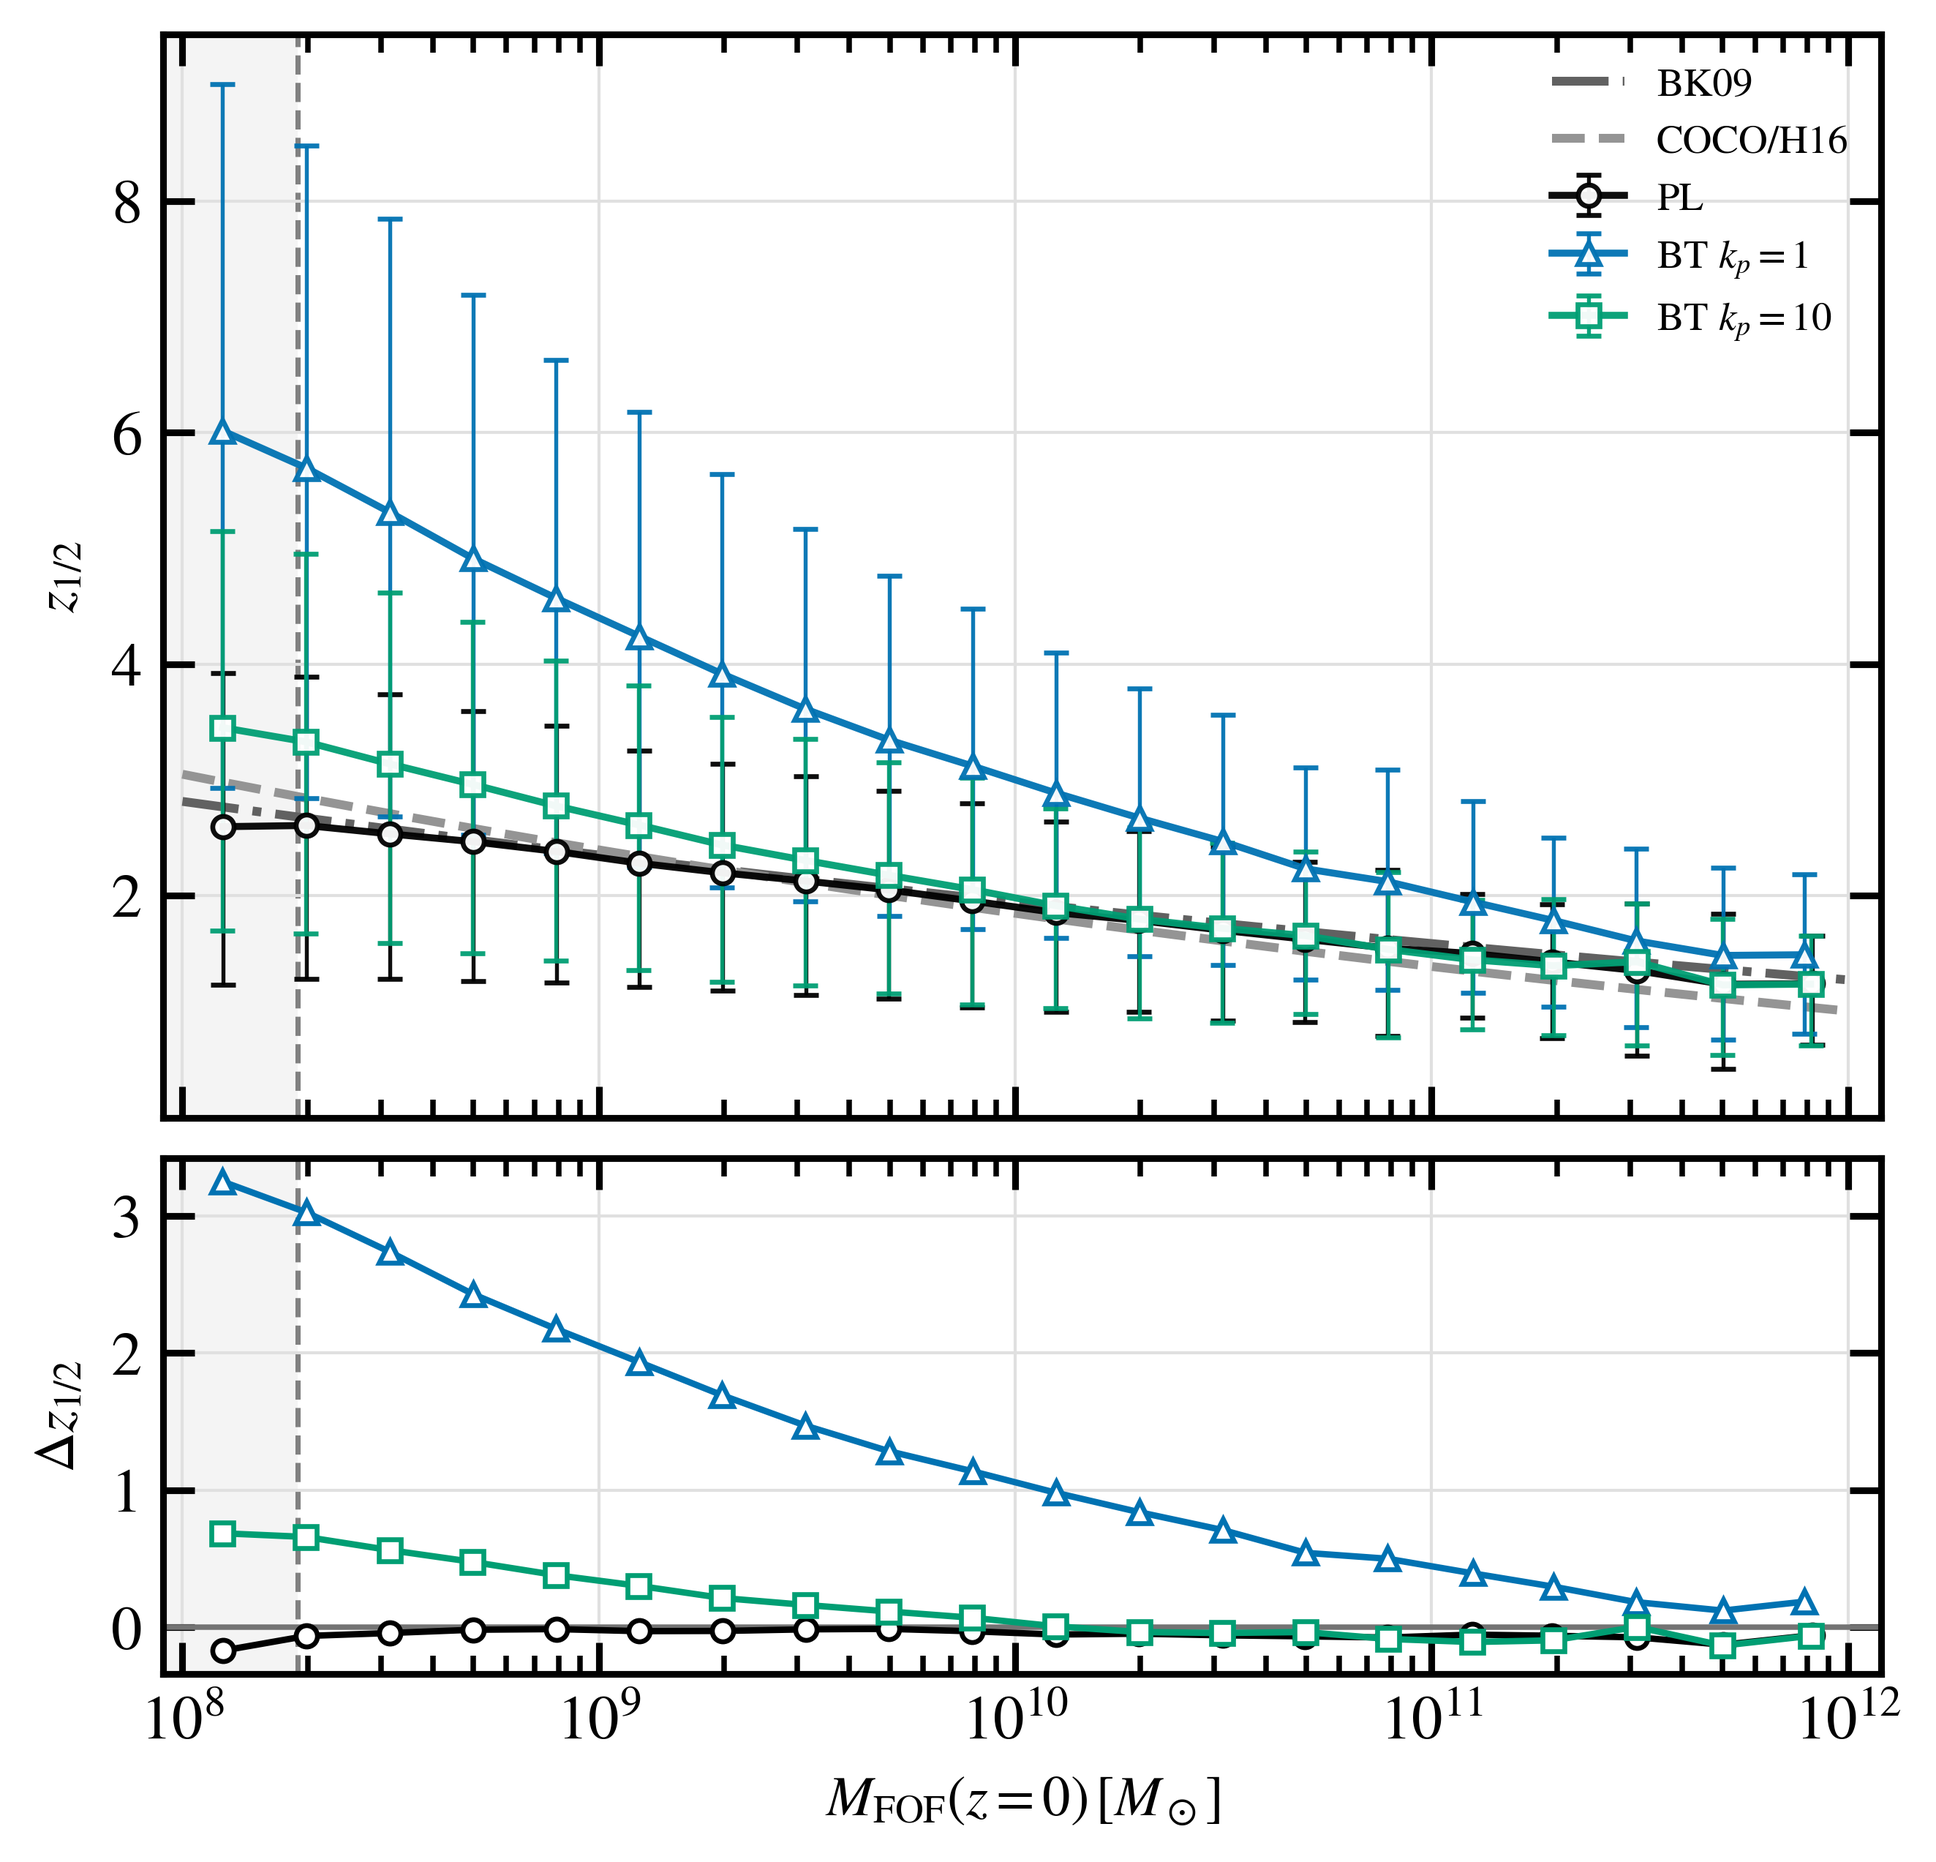
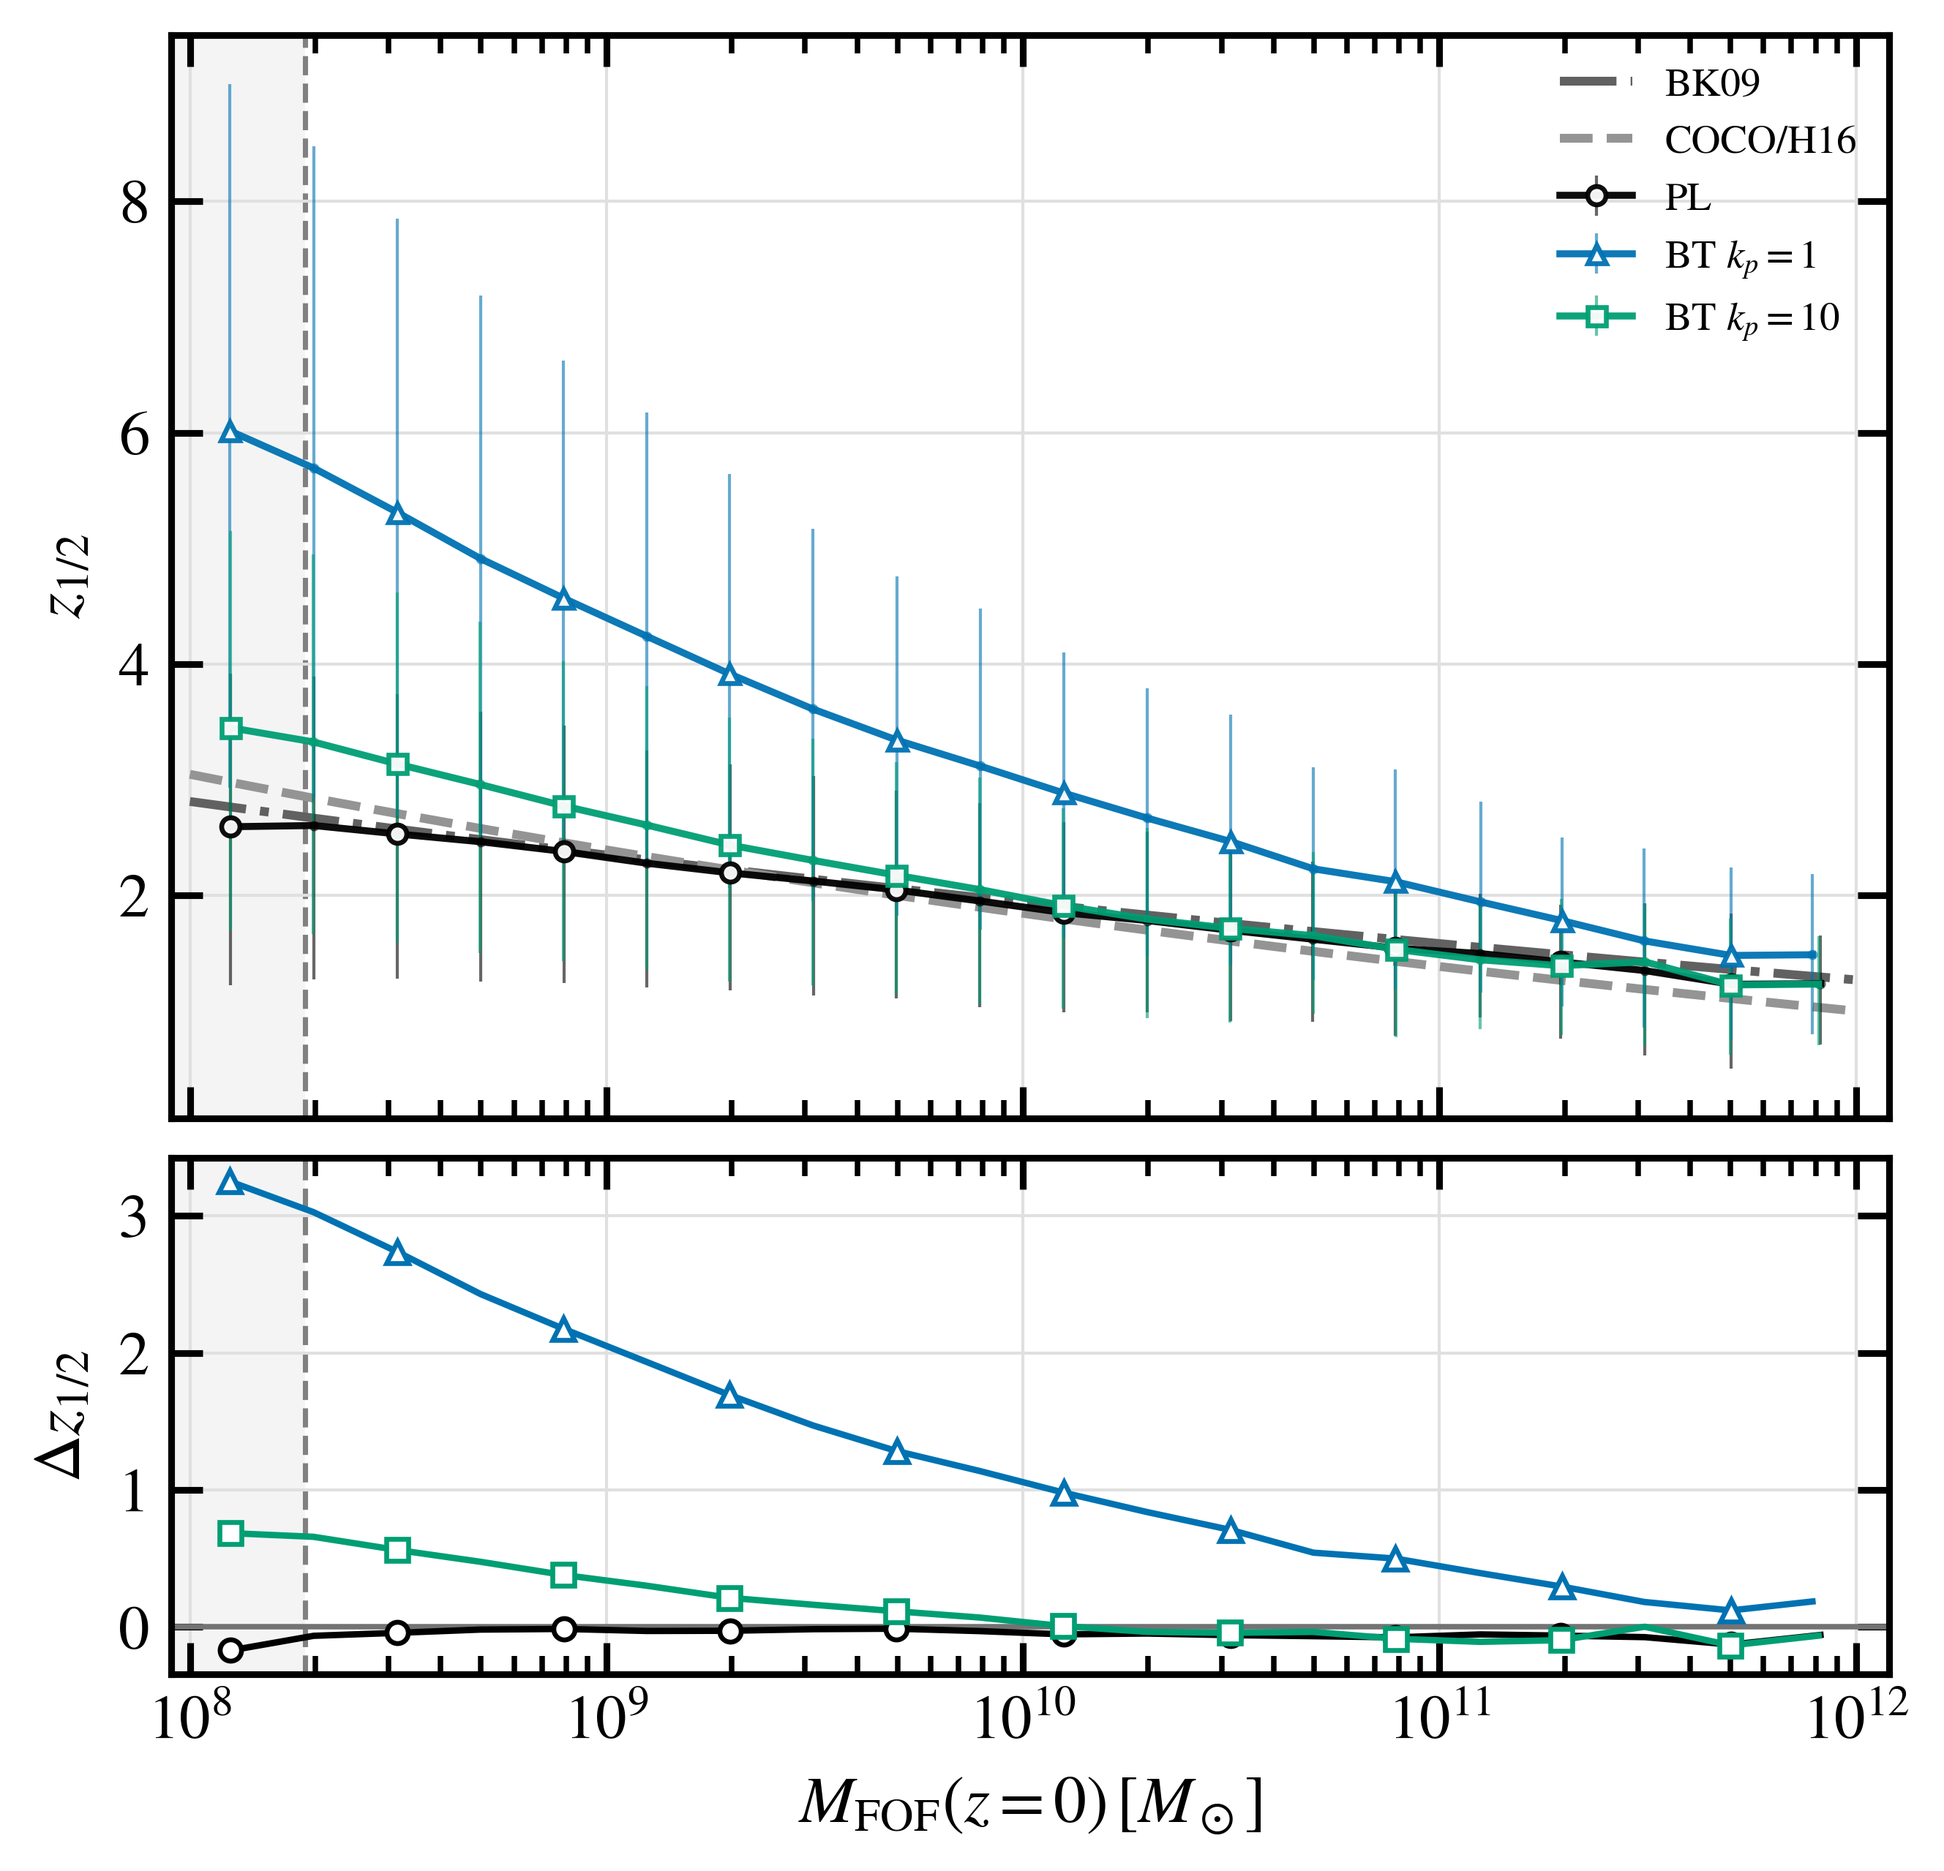
Reduce marker clutter while preserving all measurements and error bars

diff --git a/public_data/scripts/plot_hmf_public_ratio.py b/public_data/scripts/plot_hmf_public_ratio.py
@@ -11,7 +11,7 @@ import matplotlib.pyplot as plt
 import numpy as np
 from matplotlib.ticker import FixedLocator, FuncFormatter, LogFormatterMathtext, LogLocator, NullFormatter
 
-from cosmology_plot_style import JOURNAL_COLORS, apply_journal_style, format_axes, format_redshift, panel_label
+from cosmology_plot_style import JOURNAL_COLORS, apply_journal_style, format_axes, format_redshift, panel_label, sparse_errorbar
 
 
 SCRIPT_DIR = Path(__file__).resolve().parent
@@ -263,7 +263,7 @@ def main():
             r = ratios.get((snap, model), [])
             if r:
                 ax.plot(10 ** values(r, "log10_M_FOF_Msun"), values(r, "reed07_dndlog10M_interp"), style["linestyle"], color=style["color"], lw=1.15)
-                ax_model.errorbar(
+                sparse_errorbar(ax_model,
                     10 ** values(r, "log10_M_FOF_Msun"),
                     values(r, "relative_difference"),
                     yerr=values(r, "ratio_err"),
@@ -276,7 +276,7 @@ def main():
                     elinewidth=0.55,
                 )
             if p:
-                ax.errorbar(
+                sparse_errorbar(ax,
                     10 ** values(p, "log10_M_FOF_Msun"),
                     values(p, "dn_dlog10M"),
                     yerr=values(p, "poisson_err"),
@@ -294,7 +294,7 @@ def main():
                 continue
             mass, ratio, err = bt_pl_cache[(snap, model)]
             style = MODELS[model]
-            ax_bt.errorbar(mass, ratio, yerr=err, fmt=style["marker"], color=style["color"], markersize=2.9, capsize=1.2, markerfacecolor="white", markeredgewidth=0.7, elinewidth=0.55)
+            sparse_errorbar(ax_bt, mass, ratio, yerr=err, fmt=style["marker"], color=style["color"], markersize=2.9, capsize=1.2, markerfacecolor="white", markeredgewidth=0.7, elinewidth=0.55)
 
         ax_bt.axhline(1.0, color="0.2", lw=0.7, alpha=0.65)
         ax_bt.axhline(2.0, color="0.5", ls=":", lw=0.6, alpha=0.55)
@@ -343,7 +343,7 @@ def main():
         handles.append((line, point))
         labels.append(MODEL_LABELS[model])
     fig.axes[0].legend(handles, labels, loc="lower left", fontsize=8.8, frameon=True, framealpha=0.75, edgecolor="none")
-    fig.savefig(OUTPUT_PATH, dpi=120, bbox_inches=None)
+    fig.savefig(OUTPUT_PATH, dpi=600, bbox_inches=None)
     plt.close(fig)
     print(f"Saved {OUTPUT_PATH}")
 

diff --git a/public_data/scripts/plot_mass_assembly_history_correa.py b/public_data/scripts/plot_mass_assembly_history_correa.py
@@ -24,7 +24,7 @@ BT_OVER_PL_OUTPUT = DATA_DIR / "bt_over_pl_mass_fraction_ratio.csv"
 if str(SCRIPT_DIR) not in sys.path:
     sys.path.insert(0, str(SCRIPT_DIR))
 
-from cosmology_plot_style import apply_journal_style, format_axes, save_publication_figure  # noqa: E402
+from cosmology_plot_style import apply_journal_style, format_axes, save_publication_figure, sparse_errorbar  # noqa: E402
 
 
 apply_journal_style(base_fontsize=8.5)
@@ -173,7 +173,7 @@ def make_figure(
                 bt_direct["z"].to_numpy(dtype=float),
                 interval_kind,
             )
-        ax.errorbar(
+        sparse_errorbar(ax,
             np.log10(1.0 + pl_direct["z"]),
             pl_direct["median_M_msun"],
             yerr=pl_mass_errors,
@@ -185,7 +185,7 @@ def make_figure(
             capsize=1.2,
             capthick=0.65,
         )
-        ax.errorbar(
+        sparse_errorbar(ax,
             np.log10(1.0 + bt_direct["z"]),
             bt_direct["median_M_msun"],
             yerr=bt_mass_errors,
@@ -211,7 +211,7 @@ def make_figure(
         bt_ratio_errors = (
             bt_mass_errors / bt_reference_mass if bt_mass_errors is not None else None
         )
-        ratio_ax.errorbar(
+        sparse_errorbar(ratio_ax,
             pl_ratio_x,
             pl_ratio,
             yerr=pl_ratio_errors,
@@ -223,7 +223,7 @@ def make_figure(
             capsize=1.1,
             capthick=0.6,
         )
-        ratio_ax.errorbar(
+        sparse_errorbar(ratio_ax,
             bt_ratio_x,
             bt_ratio,
             yerr=bt_ratio_errors,
@@ -247,8 +247,11 @@ def make_figure(
             ls="none",
             marker="o",
             markersize=2.6,
+            markevery=3,
             alpha=0.95,
         )
+        bt_pl_ax.plot(bt_pl_x, bt_pl_ratio, color=color, ls="none",
+                      marker=".", markersize=1.35, alpha=0.65)
         for index, row in bt_direct.reset_index(drop=True).iterrows():
             bt_over_pl_rows.append(
                 {

diff --git a/public_data/scripts/cosmology_plot_style.py b/public_data/scripts/cosmology_plot_style.py
@@ -91,6 +91,33 @@ def format_axes(ax, *, grid: bool = False) -> None:
         ax.grid(True, which="major", color="0.88", linestyle="-", linewidth=0.5)
 
 
+def sparse_errorbar(ax, *args, marker_stride=2, marker_offset=0, **kwargs):
+    """Space large symbols while retaining every measurement and error bar.
+
+    Small dots show all measured centres. The original interval segments are
+    retained at every x coordinate, with no caps and lighter strokes. No input
+    arrays, bin definitions, or uncertainty values are subsampled.
+    """
+    kwargs = dict(kwargs)
+    kwargs["capsize"] = 0
+    kwargs["elinewidth"] = min(kwargs.get("elinewidth", 0.5), 0.5)
+    kwargs["markersize"] = min(kwargs.get("markersize", 3.0), 3.0)
+    container = ax.errorbar(*args, **kwargs)
+    line, _, bars = container.lines
+    if line is not None:
+        line.set_markevery((marker_offset, marker_stride))
+        # Retain the smaller marker at every original centre, including values
+        # with zero uncertainty or missing/nonfinite error extents.
+        ax.plot(
+            line.get_xdata(), line.get_ydata(), linestyle="none", marker=".",
+            markersize=1.35, color=line.get_color(), alpha=0.65,
+            zorder=line.get_zorder() - 0.05, label="_nolegend_",
+        )
+    for bar in bars:
+        bar.set_alpha(0.60)
+    return container
+
+
 def panel_label(ax, text, loc=(0.05, 0.90), fontsize=None, ha="left"):
     """Place a small unobtrusive label inside a panel."""
     ax.text(

diff --git a/public_data/scripts/plot_same_trackid_no_envelope_allmodels.py b/public_data/scripts/plot_same_trackid_no_envelope_allmodels.py
@@ -33,6 +33,7 @@ if str(TOOLS_DIR) not in sys.path:
 from cosmology_plot_style import (  # noqa: E402
     JOURNAL_COLORS,
     apply_journal_style,
+    sparse_errorbar,
     format_axes,
     save_publication_figure,
 )
@@ -307,7 +308,7 @@ def plot(points: pd.DataFrame, output_path: Path = OUT_FIG) -> None:
     for model, info in MODELS.items():
         sub = points[points["model"] == model].sort_values("M0_mean_msun")
         yerr = [sub["zhalf"] - sub["zhalf_q16"], sub["zhalf_q84"] - sub["zhalf"]]
-        ax.errorbar(
+        sparse_errorbar(ax,
             sub["M0_mean_msun"],
             sub["zhalf"],
             yerr=yerr,
@@ -330,6 +331,7 @@ def plot(points: pd.DataFrame, output_path: Path = OUT_FIG) -> None:
             markerfacecolor="white",
             markeredgewidth=0.8,
             linewidth=1.05,
+            markevery=2,
             label=info["label"],
         )
 

diff --git a/public_data/FIGURE_SPARSITY_20261029.md b/public_data/FIGURE_SPARSITY_20261029.md
@@ -1,0 +1,34 @@
+# Measurement display density, 2026-10-29
+
+The first pass updates `mass-function.png`,
+`mass-assembly-history-correa.png`, and
+`halfmass-redshift-trackid-no-envelope.png`.
+
+The shared `sparse_errorbar` helper retains every original centre as a small
+point and spaces the larger model symbols every two samples. The MAH lower
+panel uses larger symbols every three samples with small points everywhere.
+All uncertainty segments remain present at their original coordinates and
+extents, without caps, at alpha 0.60 and at most 0.5-point stroke width.
+Continuous lines, model colours, axis limits, mass/redshift bins, and interval
+interpretations are retained. FOF raster export is increased from 120 to 600 dpi.
+
+A read-only plotting trace compared the HEAD and revised script calls:
+
+| Script | Errorbar calls | Coordinate and uncertainty arrays |
+|---|---:|---|
+| `plot_hmf_public_ratio.py` | 48 | Identical, including nonfinite entries |
+| `plot_mass_assembly_history_correa.py` | 24 | Identical, including nonfinite entries |
+| `plot_same_trackid_no_envelope_allmodels.py` | 3 | Identical, including nonfinite entries |
+
+Every call retains its complete input arrays. The full released CSV files are
+unchanged. Incidental table exports during regeneration were checked for
+numerical agreement and their original byte representations retained.
+
+The concentration and M200c HMF figures are left unchanged in this pass: their
+original theoretical-model environment is unavailable in this checkout.
+No replacement theoretical curves were generated from a different model or
+library implementation. The PS figure and common journal-style defaults are
+unchanged; the new helper is used only by the three listed figure scripts.
+
+The three before/after previews were visually inspected. Script syntax and
+`git diff --check` pass. The manuscript is rebuilt after replacing the PNGs.

diff --git a/public_data/scripts/README.md b/public_data/scripts/README.md
@@ -77,3 +77,15 @@ They are retained for provenance and are not called by
 Temporary diagnostics, failed release copies, version snapshots, and legacy
 power-spectrum scripts are intentionally excluded because they do not produce
 the current manuscript results.
+
+## Sparse measurement display (2026-10-29)
+
+The FOF HMF, half-mass redshift, and mass-assembly history plots use the shared
+`sparse_errorbar` helper. Every original measured centre is shown as a small dot,
+with larger model symbols spaced every two samples. All original uncertainty
+segments remain plotted at every sample; caps are removed and strokes lightened.
+The MAH lower comparison spaces its large symbols every three samples while
+retaining small dots at all original centres. Continuous lines retain all their
+values. This changes display density only, without rebinning, fitting, changing
+interval definitions, or selecting by value. The FOF image is now exported at
+600 dpi. See `../FIGURE_SPARSITY_20261029.md` for the verification record.
